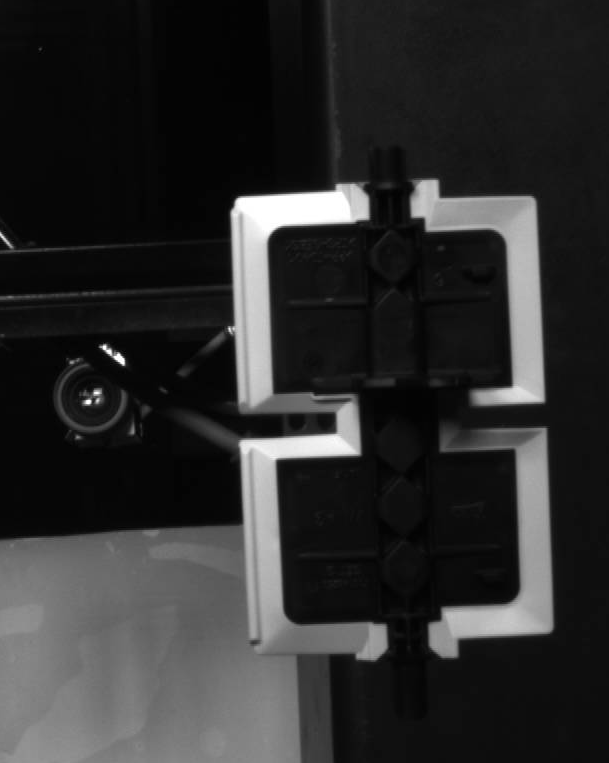
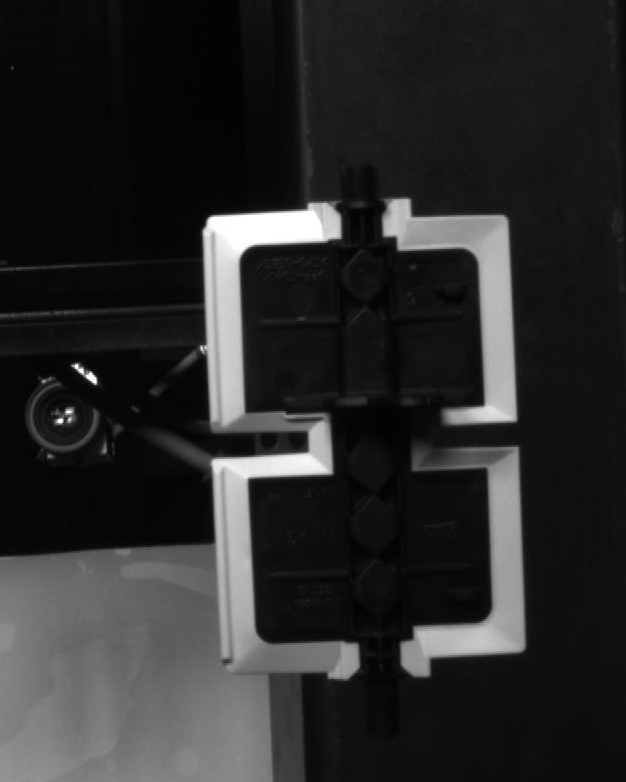
# --- TAB 3: SPRÁVA ZÓN (ELVAC STYLE) ---

Changed region(s): [[0.0, 0.0, 0.936, 1.0], [0.0, 0.3014, 0.2808, 0.422], [0.624, 0.4823, 0.6552, 0.5125]]

diff --git a/app.py b/app.py
@@ -110,112 +110,100 @@ with tab2:
             cv2.rectangle(preview, (ax, ay), (ax+aw, ay+ah), (255, 0, 0), 10)
             st.image(preview, use_container_width=True)
 
-# --- TAB 3: ZÓNY (ELVAC DASHBOARD STYLE) ---
-# --- TAB 3: ZÓNY (OPRAVENÝ ELVAC STYLE) ---
+# --- TAB 3: SPRÁVA ZÓN (ELVAC STYLE) ---
 with tab3:
-    st.subheader("📍 Konfigurace inspekcí")
+    st.markdown("### 🛠 Konfigurace inspekčních pozic")
     
+    # Načtení všech dostupných Masterů pro projekt
     all_masters = database.get_masters(st.session_state.active_project)
     
     if not all_masters:
-        st.warning("Před pokračováním vytvořte produkt (Master)!")
+        st.warning("⚠ Seznam Masterů je prázdný. Vytvořte nový v záložce MASTER.")
     else:
-        # 1. HORNÍ GALERIE MINIATUR (Opravená logika přepínání)
-        # Použijeme kontejner s pevným stylem, aby miniatury byly malé
-        st.write("### 🖼 Výběr pozice")
+        # --- HORNÍ LIŠTA MINIATUR (Scrollable Selection) ---
+        # Vytvoříme úhlednou řadu tlačítek s náhledy
+        st.write("📂 **Dostupné pozice:**")
         
-        # Pokud není vybráno, nastavíme první dostupný
-        if st.session_state.selected_master_id is None and all_masters:
+        # Inicializace výběru, pokud nic není zvoleno
+        if st.session_state.selected_master_id is None:
             st.session_state.selected_master_id = all_masters[0][0]
 
-        # Výpis miniatur do řady
-        cols = st.columns(6) 
+        # Kompaktní zobrazení miniatur vedle sebe
+        cols = st.columns(len(all_masters) if len(all_masters) < 8 else 8)
         for i, m in enumerate(all_masters):
             m_id, m_name, m_path = m[0], m[1], m[2]
-            with cols[i % 6]:
+            with cols[i % 8]:
                 if os.path.exists(m_path):
-                    # Zobrazení malého náhledu (vždy stejná výška)
+                    # Malá miniatura s pevnou šířkou
                     st.image(m_path, use_container_width=True)
                     
                     is_active = (m_id == st.session_state.selected_master_id)
-                    # Tlačítko pod náhledem
-                    if st.button(f"{m_name}", key=f"sel_m_{m_id}", use_container_width=True, 
+                    if st.button(f"{m_name}", key=f"sel_{m_id}", use_container_width=True, 
                                  type="primary" if is_active else "secondary"):
                         st.session_state.selected_master_id = m_id
                         st.rerun()
 
         st.divider()
 
-        # 2. EDITORSKÁ PLOCHA (Kompaktní rozvržení)
-        # Najdeme data pro aktuálně vybraný Master
-        sel_m = next((m for m in all_masters if m[0] == st.session_state.selected_master_id), all_masters[0])
-        m_id, m_path = sel_m[0], sel_m[2]
+        # --- HLAVNÍ EDITOR ---
+        # Získání dat pro aktuálně vybraný Master (P1, P2...)
+        sel_master = next((m for m in all_masters if m[0] == st.session_state.selected_master_id), all_masters[0])
+        m_id, m_name, m_path = sel_master[0], sel_master[1], sel_master[2]
         
         if os.path.exists(m_path):
             img_roi = Image.open(m_path).convert("RGB")
             W, H = img_roi.size
             all_rois = database.get_rois(m_id)
             
-            # ROZLOŽENÍ 1:2 (vlevo úzké ovládání, vpravo fotka)
-            col_side, col_main = st.columns([1, 1.8])
+            # Rozdělení: Levý panel (ovládání) | Pravý panel (fotka)
+            col_ctrl, col_img = st.columns([1, 1.8])
             
-            with col_side:
-                st.write("🔧 **NASTAVENÍ ROI**")
-                curr = next((r for r in all_rois if r[0] == st.session_state.editing_id), None)
+            with col_ctrl:
+                st.info(f"📍 Pozice: **{m_name}**")
                 
-                zn = st.text_input("Označení", value=curr[1] if curr else "Nová inspekce")
+                # Formulář pro zónu
+                curr_roi = next((r for r in all_rois if r[0] == st.session_state.editing_id), None)
+                zn = st.text_input("Název zóny", value=curr_roi[1] if curr_roi else f"Zóna {len(all_rois)+1}")
                 
-                # Číselné vstupy místo sliderů pro úsporu místa a přesnost
-                r1, r2 = st.columns(2)
-                zx = r1.number_input("X", 0, W, curr[2] if curr else W//2)
-                zy = r2.number_input("Y", 0, H, curr[3] if curr else H//2)
-                zw = r1.number_input("Šířka", 10, W, curr[4] if curr else 100)
-                zh = r2.number_input("Výška", 10, H, curr[5] if curr else 100)
+                c1, c2 = st.columns(2)
+                zx = c1.number_input("X", 0, W, curr_roi[2] if curr_roi else W//2)
+                zy = c2.number_input("Y", 0, H, curr_roi[3] if curr_roi else H//2)
+                zw = c1.number_input("Šířka", 10, W, curr_roi[4] if curr_roi else 150)
+                zh = c2.number_input("Výška", 10, H, curr_roi[5] if curr_roi else 150)
                 
-                nok = st.selectbox("PLC Index (Error code)", range(1, 11), index=(curr[6]-1) if curr else 0)
+                nok = st.selectbox("PLC Chyba", range(1, 11), index=(curr_roi[6]-1) if curr_roi else 0)
                 
-                if st.button("➕ PŘIDAT / ULOŽIT", type="primary", use_container_width=True):
+                if st.button("💾 ULOŽIT ZÓNU", type="primary", use_container_width=True):
                     if st.session_state.editing_id:
                         database.delete_roi(st.session_state.editing_id)
                     database.save_roi(m_id, zn, zx, zy, zw, zh, nok)
                     st.session_state.editing_id = None
                     st.rerun()
                 
-                if st.session_state.editing_id:
-                    if st.button("✖ ZRUŠIT EDITACI", use_container_width=True):
-                        st.session_state.editing_id = None
-                        st.rerun()
-
-                st.divider()
-                st.write("📋 **ULOŽENÉ INSPEKCE**")
+                st.write("---")
+                st.caption("Seznam aktivních inspekcí:")
                 for r in all_rois:
-                    c_txt, c_ed, c_del = st.columns([3, 1, 1])
-                    c_txt.caption(f"{r[1]} (PLC:{r[6]})")
-                    if c_ed.button("✏", key=f"e_roi_{r[0]}"):
+                    col_t, col_b = st.columns([3, 1])
+                    col_t.write(f"• {r[1]} (PLC {r[6]})")
+                    if col_b.button("✏", key=f"ed_{r[0]}"):
                         st.session_state.editing_id = r[0]
                         st.rerun()
-                    if c_del.button("🗑", key=f"d_roi_{r[0]}"):
-                        database.delete_roi(r[0])
-                        st.rerun()
-
-            with col_main:
-                # Kreslení do obrázku
+            
+            with col_img:
+                # Kreslení ROI do obrázku
                 draw = ImageDraw.Draw(img_roi)
                 for r in all_rois:
-                    is_this_editing = (r[0] == st.session_state.editing_id)
+                    is_ed = (r[0] == st.session_state.editing_id)
                     draw.rectangle([r[2], r[3], r[2]+r[4], r[3]+r[5]], 
-                                   outline="#ff4b4b" if is_this_editing else "#deff9a", 
-                                   width=6 if is_this_editing else 3)
-                    if not is_this_editing:
-                        draw.text((r[2], r[3]-20), r[1], fill="#deff9a")
+                                   outline="#ff4b4b" if is_ed else "#deff9a", width=5 if is_ed else 2)
                 
-                # Náhled nové zóny (oranžová), pokud nic needitujeme
+                # Náhled aktuálně rozdělané zóny
                 if not st.session_state.editing_id:
                     draw.rectangle([zx, zy, zx+zw, zy+zh], outline="orange", width=2)
-
-                # KLÍČOVÝ FIX: Zobrazení pracovní fotky s pevnou šířkou
-                # To zabrání tomu, aby fotka byla "strašně veliká"
-                st.image(img_roi, use_container_width=True, caption=f"Pracovní náhled: {sel_m[1]}")
+                
+                # Zobrazení fotky - OMEZENÍ VELIKOSTI
+                # use_container_width zajistí, že nepřeteče sloupec
+                st.image(img_roi, use_container_width=True, caption=f"Pracovní náhled: {m_name}")
         else:
             st.error(f"Soubor {m_path} nenalezen.")
 
